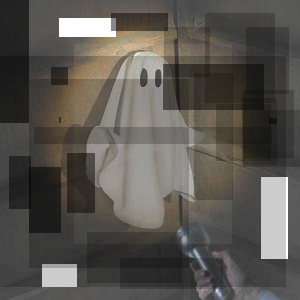
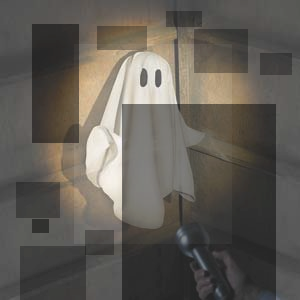
Improved patchy ghost, verified that it detects all the maintenance task changes.

diff --git a/eval/QuickPicture/src/edu/washington/cs/rtrefactor/eval/transform/CartoonifyImageTransform.java b/eval/QuickPicture/src/edu/washington/cs/rtrefactor/eval/transform/CartoonifyImageTransform.java
@@ -97,7 +97,7 @@ public strictfp class CartoonifyImageTransform implements ImageTransform {
                                                 total.setRed(total.getRed() + oldColor.getRed());
                                                 total.setGreen(total.getGreen() + oldColor.getGreen());
                                                 total.setBlue(total.getBlue() + oldColor.getBlue());
-                                                //total.setAlpha(total.getAlpha() + oldColor.getAlpha());
+                                                total.setAlpha(total.getAlpha() + oldColor.getAlpha());
                                                 samples++;
                                         }
                                 }
@@ -107,8 +107,8 @@ public strictfp class CartoonifyImageTransform implements ImageTransform {
                                                 if (r + roff >= 0 && r + roff < old.getHeight() && c + coff >=0 && c + coff < old.getWidth()){
                                                         QuickColor newColor = new QuickColor(total.getRed()/samples, 
                                                                         total.getGreen()/samples, total.getBlue()/samples, 
-                                                                        old.getColor(c+coff, r+roff).getAlpha());
-                                                                        //total.getAlpha()/samples));
+                                                                        //old.getColor(c+coff, r+roff).getAlpha());
+                                                                        total.getAlpha()/samples);
                                                         result.setColor(c+coff, r+roff, newColor);
                                                         
                                                 }

diff --git a/eval/QuickPicture/src/edu/washington/cs/rtrefactor/eval/transform/UnderwaterTransform.java b/eval/QuickPicture/src/edu/washington/cs/rtrefactor/eval/transform/UnderwaterTransform.java
@@ -68,7 +68,7 @@ public strictfp class UnderwaterTransform implements ImageTransform {
                                                 total.setRed(total.getRed() + oldColor.getRed());
                                                 total.setGreen(total.getGreen() + oldColor.getGreen());
                                                 total.setBlue(total.getBlue() + oldColor.getBlue());
-                                                //total.setAlpha(total.getAlpha() + oldColor.getAlpha());
+                                                total.setAlpha(total.getAlpha() + oldColor.getAlpha());
                                                 samples++;
                                         }
                                 }
@@ -76,8 +76,8 @@ public strictfp class UnderwaterTransform implements ImageTransform {
                                 //We should probably be blending the alphas here
                                 QuickColor newColor = new QuickColor(total.getRed()/samples, 
                                                 total.getGreen()/samples, total.getBlue()/samples, 
-                                                blue.getColor(c, r).getAlpha());
-                                                //total.getAlpha()/samples));
+                                             //   blue.getColor(c, r).getAlpha());
+                                                total.getAlpha()/samples);
                                 res.setColor(c/2, r/2, newColor);
                                 
                         }

diff --git a/eval/QuickPicture/src/edu/washington/cs/rtrefactor/eval/tests/GenerateTargets.java b/eval/QuickPicture/src/edu/washington/cs/rtrefactor/eval/tests/GenerateTargets.java
@@ -32,7 +32,7 @@ public class GenerateTargets {
 	public static void main(String[] args) throws IOException {
 	    astronaut = QuickPicture.read(new File(Common.IMAGE_DIR, "Astronaut_small.jpg"));
         puppy = QuickPicture.read(new File(Common.IMAGE_DIR, "Puppy_small.jpg"));
-        ghost = QuickPicture.read(new File(Common.IMAGE_DIR, "Ghost.png"));
+        ghost = QuickPicture.read(new File(Common.IMAGE_DIR, "ghost_try.png"));
 	
         writeTarget(astronaut, new NewImageTransform(17, new QuickColor(-400, 400, -400, 0)), "Astronaut_new.jpg");
         writeTarget(puppy, new NewImageTransform(10, new QuickColor(-400, 400, 400, 0)), "Puppy_new.jpg");

diff --git a/eval/QuickPicture/src/edu/washington/cs/rtrefactor/eval/tests/TransformTest.java b/eval/QuickPicture/src/edu/washington/cs/rtrefactor/eval/tests/TransformTest.java
@@ -25,7 +25,7 @@ public class TransformTest {
 	public void setUp() throws Exception {
 		astronaut = QuickPicture.read(new File(Common.IMAGE_DIR, "Astronaut_small.jpg"));
 		puppy = QuickPicture.read(new File(Common.IMAGE_DIR, "Puppy_small.jpg"));
-		ghost = QuickPicture.read(new File(Common.IMAGE_DIR, "Ghost.png"));
+		ghost = QuickPicture.read(new File(Common.IMAGE_DIR, "ghost_try.png"));
 	}
 
 	/**

diff --git a/eval/QuickPicture/src/edu/washington/cs/rtrefactor/eval/tests/HiddenTests.java b/eval/QuickPicture/src/edu/washington/cs/rtrefactor/eval/tests/HiddenTests.java
@@ -19,7 +19,7 @@ public class HiddenTests {
 
 	@Before
 	public void setUp() throws Exception {
-		 ghost = QuickPicture.read(new File(Common.IMAGE_DIR, "Ghost.png"));
+		 ghost = Common.tryRead("ghost_try.png");
 	}
 
 	@Test
